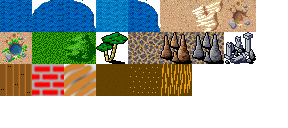
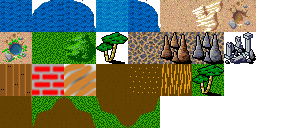
Added some stupid sheep. Tiles added also.

Changed region(s): [[0.0, 0.75, 0.5625, 1.0], [0.6562, 0.5, 0.7812, 0.75]]

diff --git a/tiledisplay.py b/tiledisplay.py
@@ -9,6 +9,7 @@ import ConfigParser
 from AnimatedSprite import AnimatedSprite
 from npcrenderer import NpcRenderer
 from PlayerRenderer import PlayerRenderer
+from AnimalRenderer import AnimalRenderer
 
 if not pygame.font: print 'Warning, fonts disabled'
 if not pygame.mixer: print 'Warning, sound disabled'
@@ -36,6 +37,7 @@ class TileDisplay:
 
         self.npc_renderer = NpcRenderer(self.mapsurface)
         self.player_renderer = PlayerRenderer(self.mapsurface)
+        self.animal_renderer = AnimalRenderer(self.mapsurface)
         # Camera margin from edge of screen (pixels)
         self.CAMERA_MARGIN = 100
         self.SCREEN_WIDTH = 800
@@ -58,6 +60,10 @@ class TileDisplay:
     def draw_players(self):
         for player in self.city.players:
             self.player_renderer.draw(player)
+
+    def draw_animals(self):
+        for animal in self.city.animals:
+            self.animal_renderer.draw(animal)
 
     def draw(self):
         self.adjust_camera()
@@ -118,6 +124,7 @@ class TileDisplay:
         self.draw_tiles()
         self.draw_npcs()
         self.draw_stocks()
+        self.draw_animals()
         self.draw_players()
 
 
@@ -207,6 +214,11 @@ class TileDisplay:
                                 tile = int(tile[0])+1, int(tile[1])
                             elif not wall(map_x+1, map_y):
                                 tile = int(tile[0])+2, int(tile[1])
+                        elif not wall(map_x, map_y+1):
+                            if not wall(map_x-1, map_y):
+                                tile = int(tile[0])+3, int(tile[1])
+                            elif not wall(map_x+1, map_y):
+                                tile = int(tile[0])+4, int(tile[1])
                     else:
                         #print "Not a Wall!"
                         # Normal tile

diff --git a/testdisplay.py b/testdisplay.py
@@ -10,6 +10,8 @@ from tiledisplay import *
 from pygame.locals import *
 from display import *
 from latrappe.player import Player
+from latrappe.animal import Animal
+
 
 SCREEN_WIDTH = 800
 SCREEN_HEIGHT = 600
@@ -38,7 +40,7 @@ class TestDisplay:
         self.statdisplay = Display(screen)
         self.initStatDisplay(self.statdisplay)
         self.window = self.statdisplay
-        self.camera_movement = (0,0)
+        #self.camera_movement = (0,0)
         self.time = 0
         self.player = self.city.get_controlled_player()
 
@@ -60,7 +62,10 @@ class TestDisplay:
             for player in self.city.players:
                 player.advance(5)
 
-            self.moveCamera()
+            for animal in self.city.animals:
+                animal.advance(5)
+
+            #self.moveCamera()
             self.window.advance(self.time)
             self.window.draw()
             pygame.display.update()
@@ -99,6 +104,9 @@ class TestDisplay:
         loader = Loader()
         self.city = loader.load_city('city.txt')
         self.city.add_player(Player())
+        self.city.add_animal(Animal(200, 200))
+        self.city.add_animal(Animal(200, 240))
+        self.city.add_animal(Animal(245, 205))
         return self.city
 
     def initStatDisplay(self, disp):
@@ -161,9 +169,9 @@ class TestDisplay:
             npc.x += x_movement
             npc.y += y_movement
 
-    def moveCamera(self):
-        self.tiledisplay.camerax += self.camera_movement[0]
-        self.tiledisplay.cameray += self.camera_movement[1]
+    #def moveCamera(self):
+        #self.tiledisplay.camerax += self.camera_movement[0]
+        #self.tiledisplay.cameray += self.camera_movement[1]
 
     def randomizeNpcLocations(self):
         for npc in self.city.npcs:

diff --git a/latrappe/animal.py b/latrappe/animal.py
@@ -1,0 +1,27 @@
+import random
+
+class Animal:
+
+    def __init__(self, x=100, y=100, owner=None):
+        self.x = x
+        self.y = y
+        self.owner = owner
+        self.target = (random.randint(self.x, self.x + 50), random.randint(self.y, self.y + 50))
+
+    def advance(self, time):
+        self.moveToTarget()
+
+    def moveToTarget(self):
+        if self.x < self.target[0]:
+            self.x += 1
+        elif self.x > self.target[0]:
+            self.x -= 1
+
+        if self.y < self.target[1]:
+            self.y += 1
+        elif self.y > self.target[1]:
+            self.y -= 1
+
+        if (self.x == self.target[0]) and (self.y == self.target[1]):
+            self.target = (random.randint(200, 300), random.randint(200, 300))
+

diff --git a/AnimalRenderer.py b/AnimalRenderer.py
@@ -1,0 +1,17 @@
+import pygame
+from TileUtils import *
+from AnimatedSprite import AnimatedSprite
+from latrappe import *
+
+class AnimalRenderer:
+
+    def __init__(self, surface, tile_width=32, tile_height=32):
+        self.MAP_TILE_WIDTH = tile_width
+        self.MAP_TILE_HEIGHT = tile_height
+        # TODO: Change player image
+        self.animal_img = pygame.image.load("sheep.png")
+        self.surface = surface
+
+    def draw(self, animal):
+        #print "drawing player"
+        self.surface.blit(self.animal_img, (animal.x, animal.y))

diff --git a/latrappe/city.py b/latrappe/city.py
@@ -4,6 +4,7 @@ class City(object):
         self.npcs = []
         self.stocks = []
         self.players = []
+        self.animals = []
         self.filename = filename
 
     def add_npc(self, npc):
@@ -15,6 +16,9 @@ class City(object):
 
     def add_player(self, player):
     	self.players.append(player)
+
+    def add_animal(self, animal):
+    	self.animals.append(animal)
 
     # TODO: Rethink this, for now just return always Player 1
     def get_controlled_player(self):
